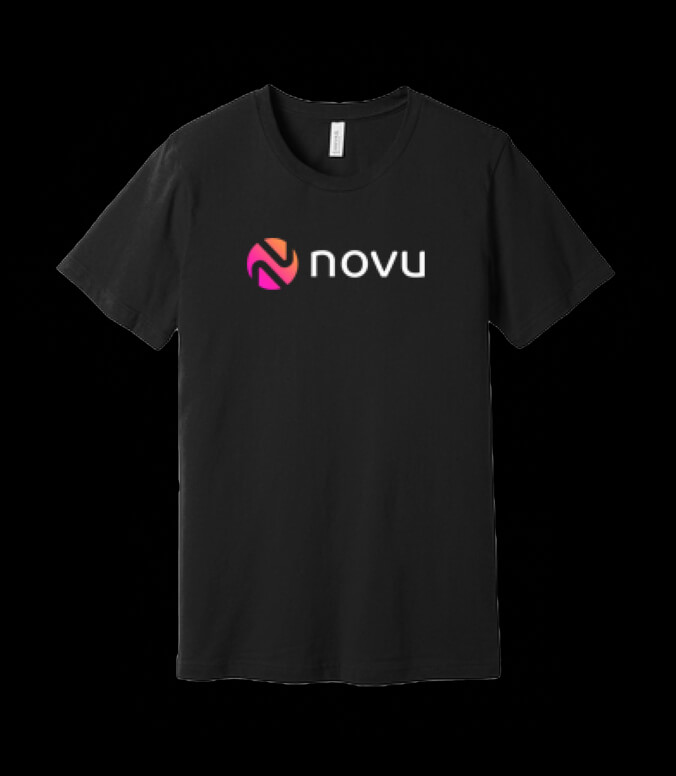
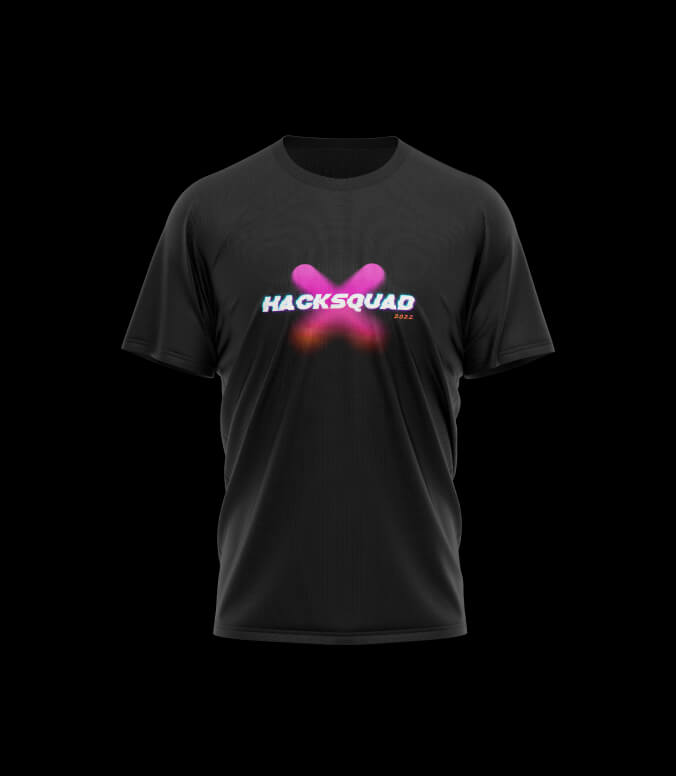
feat: update swag

Changed region(s): [[0.0621, 0.0928, 0.9009, 0.8969], [0.3417, 0.3093, 0.6524, 0.4639]]

diff --git a/src/components/pages/home/swag/swag.jsx b/src/components/pages/home/swag/swag.jsx
@@ -3,17 +3,21 @@ import React from 'react';
 
 import SectionHeading from 'components/shared/section-heading';
 
+import bag from './images/bag.jpg';
 import bgBorder from './images/bg-border.png';
 import bgLeftGlitch from './images/bg-left-glitch.jpg';
 import bgRightGlitch from './images/bg-right-glitch.jpg';
 import bg from './images/bg.jpg';
+import box from './images/box.jpg';
+import hoodie from './images/hoodie.jpg';
 import mug from './images/mug.jpg';
-import socks from './images/socks.jpg';
+import sticker2 from './images/sticker-2.jpg';
 import sticker from './images/sticker.jpg';
+import tShirt2 from './images/t-shirt-2.jpg';
 import tShirt from './images/t-shirt.jpg';
 
 const title = 'Swag list';
-const swagList = [tShirt, mug, sticker, socks, tShirt, mug, sticker, socks];
+const swagList = [tShirt, mug, sticker, bag, box, hoodie, tShirt2, sticker2];
 
 const Swag = () => (
   <section className="safe-paddings relative py-26 md:py-20 sm:py-16 xs:py-12" id="swag">
@@ -30,15 +34,11 @@ const Swag = () => (
 
       <ul className="grid-gap relative mt-20 grid grid-cols-4 md:mt-16 sm:mt-10 sm:grid-cols-2">
         {swagList.map((item, index) => (
-          <li key={index}>
-            <Image
-              className="border border-gray-2"
-              src={item}
-              alt="Swag item"
-              width={338}
-              height={338}
-              layout="responsive"
-            />
+          <li
+            className="relative before:absolute before:h-full before:w-full before:border before:border-gray-2"
+            key={index}
+          >
+            <Image src={item} alt="Swag item" width={338} height={388} layout="responsive" />
           </li>
         ))}
 
